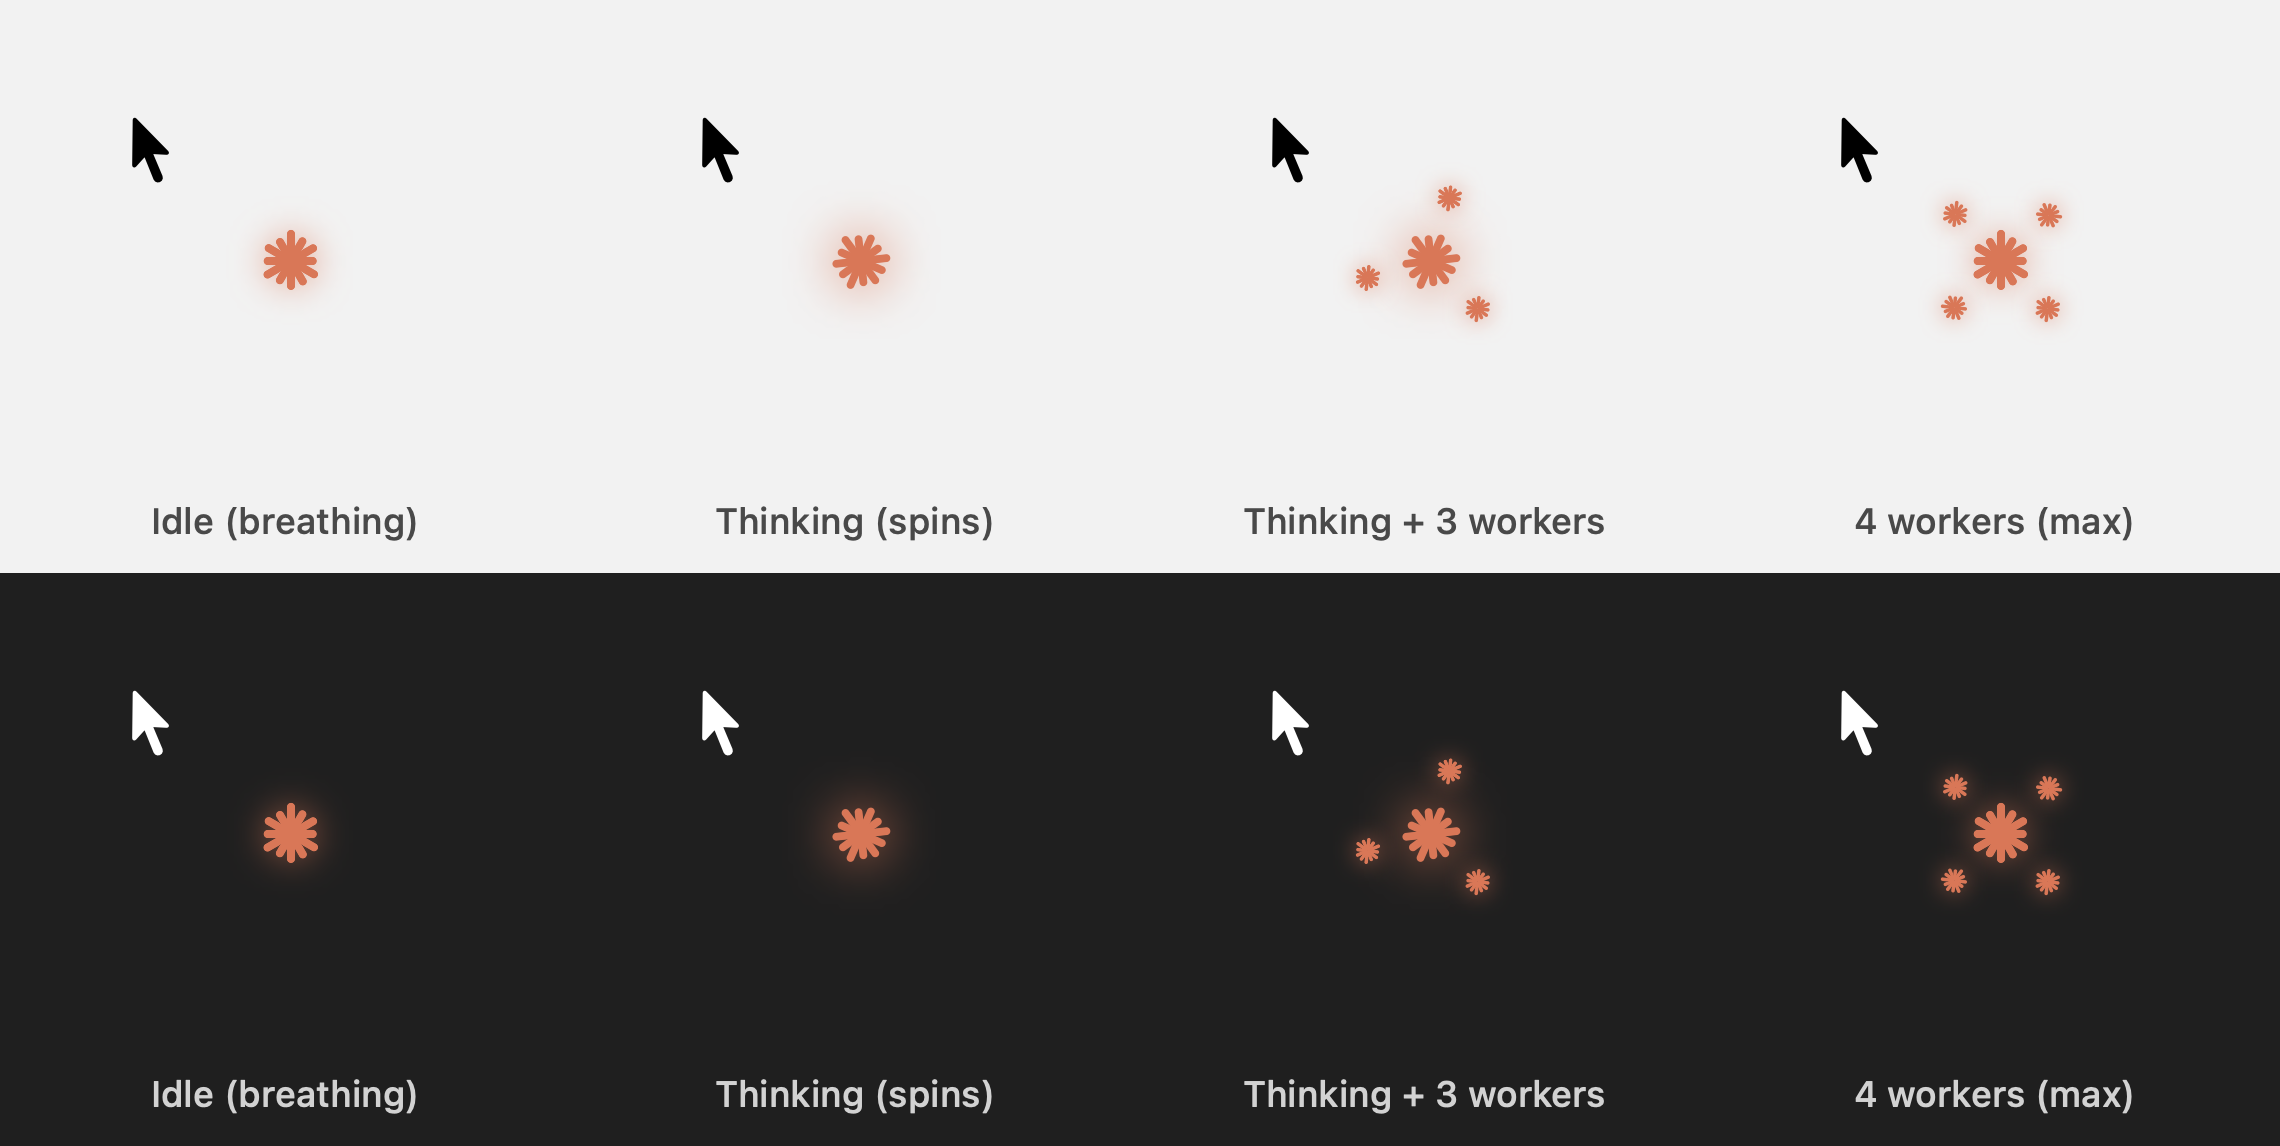
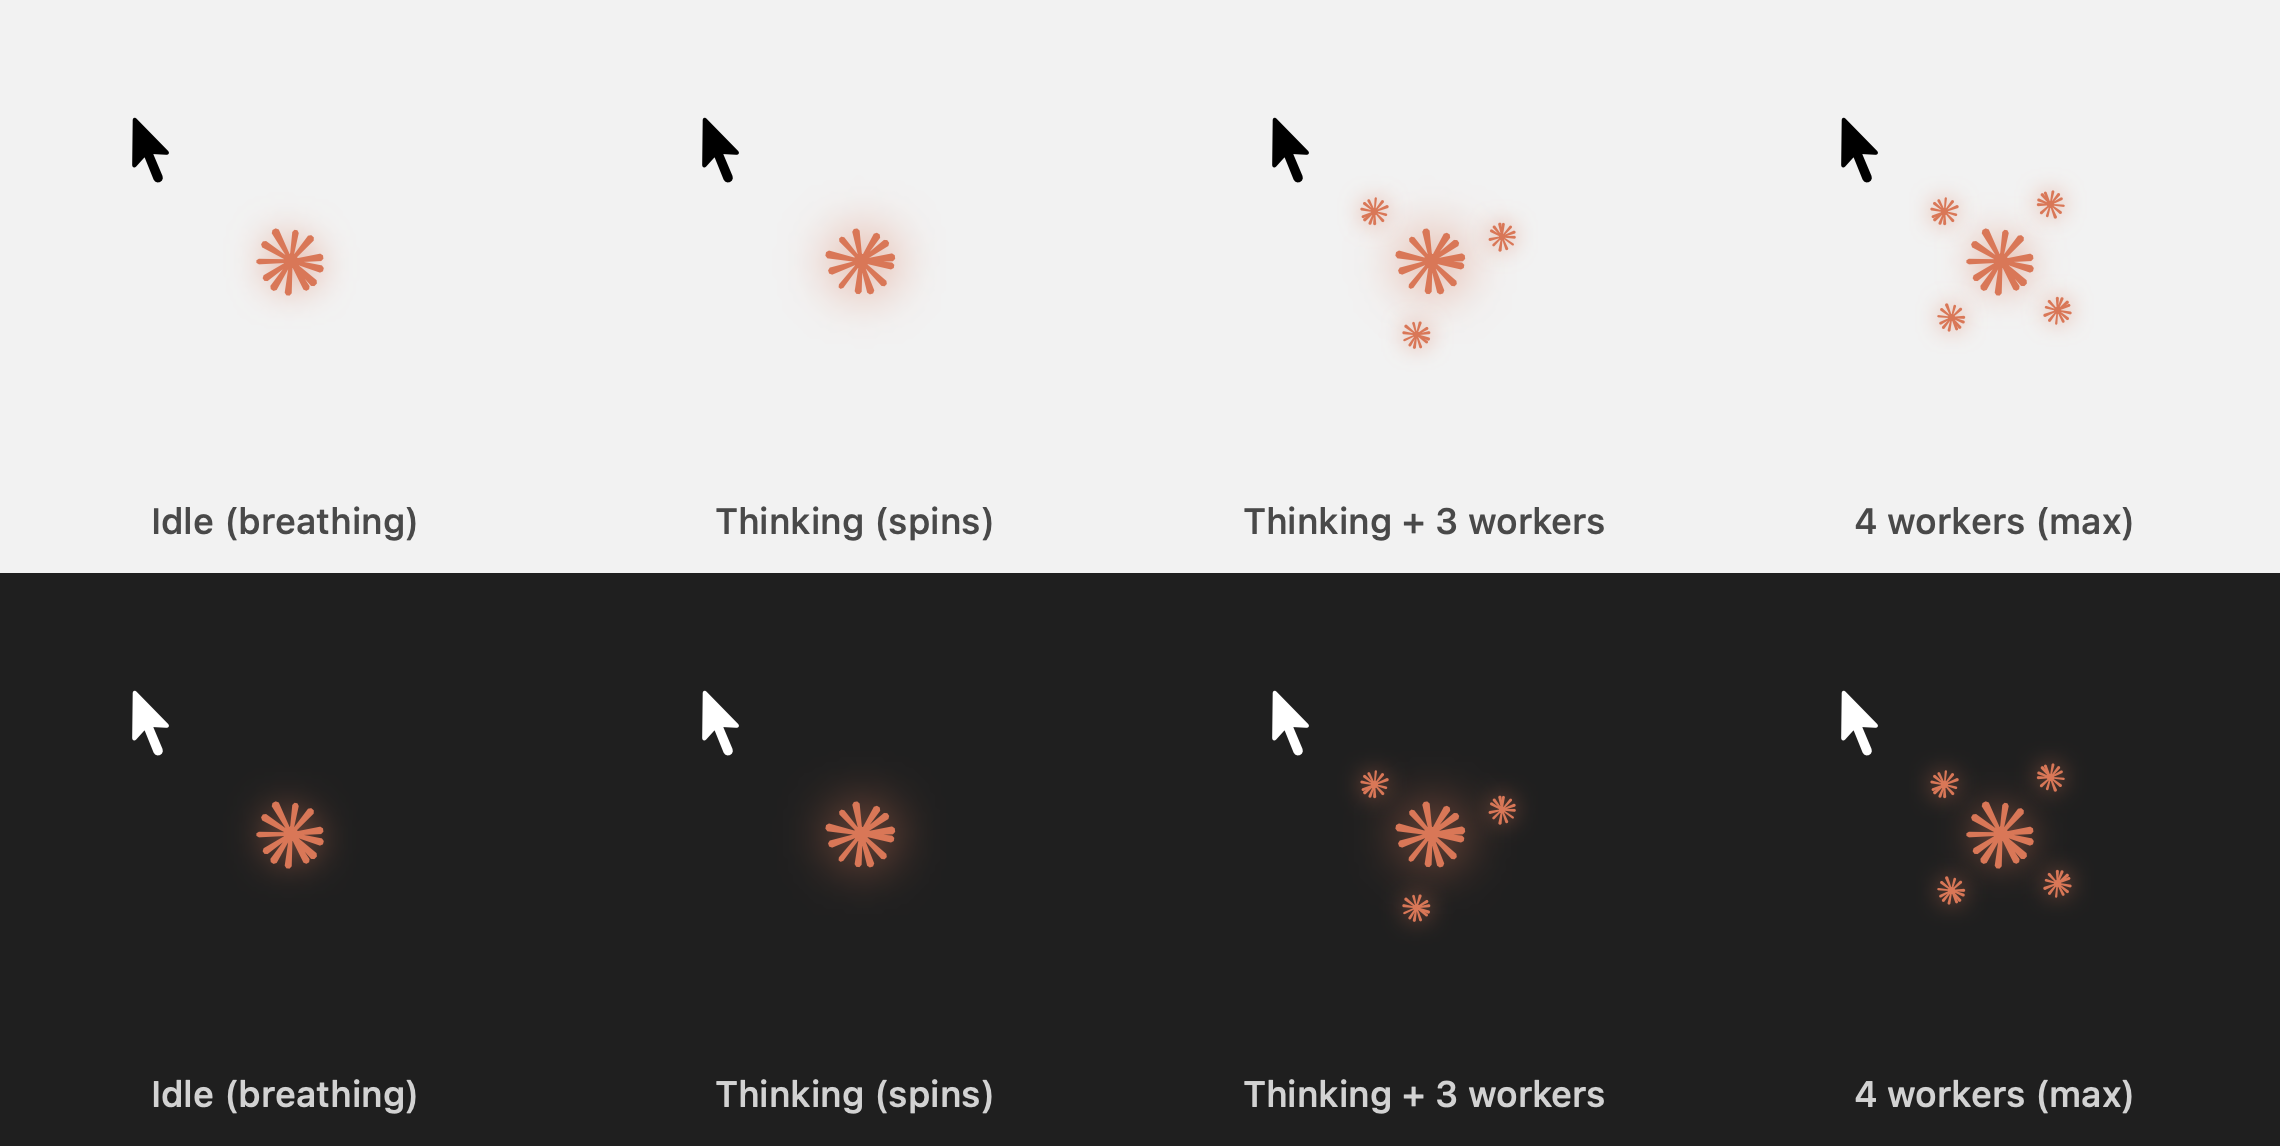
Redraw companion to match Claude mark
The old spark was a symmetric round-capped asterisk. The new shape uses ray angles and lengths measured from the real mark, with tapered rays, clipped tips and a solid centre, and is a little larger so it reads at cursor size. No icon file is bundled; it's drawn in code.

diff --git a/leanring-buddy/ClaudeCompanionView.swift b/leanring-buddy/ClaudeCompanionView.swift
@@ -13,42 +13,87 @@
 
 import SwiftUI
 
-/// A radial burst of rounded rays, like Claude's spark mark. Ray lengths vary
-/// slightly so it looks hand-drawn rather than like a perfect asterisk.
+/// Claude's spark mark: twelve tapered rays of slightly uneven length and
+/// spacing, thin where they meet in the middle and wider at their clipped
+/// tips, so it reads as hand-drawn rather than a geometric star.
 struct ClaudeSparkShape: Shape {
-    /// Relative length of each ray (1.0 = reaches the edge of the frame).
-    /// Fixed values, not random, so every spark looks the same.
-    private static let relativeRayLengths: [CGFloat] = [
-        1.00, 0.84, 0.94, 0.80, 0.98, 0.87, 0.92, 0.82, 1.00, 0.86, 0.95, 0.81
+    private struct SparkRay {
+        /// Direction in degrees: 0 points right, increasing clockwise.
+        let angleDegrees: CGFloat
+        /// 1.0 reaches the edge of the frame.
+        let relativeLength: CGFloat
+        /// Half the width of the tip, as a fraction of the spark's radius.
+        let relativeTipHalfWidth: CGFloat
+    }
+
+    /// Angles and lengths measured from the real mark, so the unevenness
+    /// matches it instead of being random.
+    private static let sparkRays: [SparkRay] = [
+        SparkRay(angleDegrees: 15, relativeLength: 0.93, relativeTipHalfWidth: 0.104),
+        SparkRay(angleDegrees: 44, relativeLength: 0.95, relativeTipHalfWidth: 0.111),
+        SparkRay(angleDegrees: 60, relativeLength: 0.93, relativeTipHalfWidth: 0.098),
+        SparkRay(angleDegrees: 95, relativeLength: 0.96, relativeTipHalfWidth: 0.098),
+        SparkRay(angleDegrees: 123, relativeLength: 0.96, relativeTipHalfWidth: 0.104),
+        SparkRay(angleDegrees: 146, relativeLength: 0.92, relativeTipHalfWidth: 0.098),
+        SparkRay(angleDegrees: 179, relativeLength: 0.96, relativeTipHalfWidth: 0.078),
+        SparkRay(angleDegrees: 212, relativeLength: 0.95, relativeTipHalfWidth: 0.104),
+        SparkRay(angleDegrees: 242, relativeLength: 1.00, relativeTipHalfWidth: 0.111),
+        SparkRay(angleDegrees: 279, relativeLength: 0.87, relativeTipHalfWidth: 0.091),
+        SparkRay(angleDegrees: 311, relativeLength: 0.91, relativeTipHalfWidth: 0.104),
+        SparkRay(angleDegrees: 353, relativeLength: 0.90, relativeTipHalfWidth: 0.104)
     ]
+
+    /// Where the rays start, and their half-width there. Rays start inside
+    /// the hub so they merge into one solid centre.
+    private static let relativeRayBaseRadius: CGFloat = 0.10
+    private static let relativeRayBaseHalfWidth: CGFloat = 0.05
+    private static let relativeHubRadius: CGFloat = 0.2
+    /// How far back from the tip its corners are clipped.
+    private static let relativeTipChamferLength: CGFloat = 0.07
 
     func path(in rect: CGRect) -> Path {
         let sparkCenter = CGPoint(x: rect.midX, y: rect.midY)
         let sparkRadius = min(rect.width, rect.height) / 2
-        // Rays are stroked with round caps, so pull the tips in by half the
-        // stroke width to keep them inside the frame.
-        let rayStrokeWidth = sparkRadius * 0.26
-        let rayInnerRadius = sparkRadius * 0.12
-        let rayCount = Self.relativeRayLengths.count
 
-        var raySkeletonPath = Path()
-        for rayIndex in 0..<rayCount {
-            // Start pointing straight up and go clockwise.
-            let rayAngle = (CGFloat(rayIndex) / CGFloat(rayCount)) * 2 * .pi - .pi / 2
-            let rayOuterRadius = (sparkRadius - rayStrokeWidth / 2) * Self.relativeRayLengths[rayIndex]
-            raySkeletonPath.move(to: CGPoint(
-                x: sparkCenter.x + cos(rayAngle) * rayInnerRadius,
-                y: sparkCenter.y + sin(rayAngle) * rayInnerRadius
-            ))
-            raySkeletonPath.addLine(to: CGPoint(
-                x: sparkCenter.x + cos(rayAngle) * rayOuterRadius,
-                y: sparkCenter.y + sin(rayAngle) * rayOuterRadius
-            ))
+        /// Maps a point in a ray's own frame (x along the ray, y across it)
+        /// to the view, rotated to the ray's direction.
+        func pointAlongRay(angleRadians: CGFloat, alongRay: CGFloat, acrossRay: CGFloat) -> CGPoint {
+            CGPoint(
+                x: sparkCenter.x + (cos(angleRadians) * alongRay - sin(angleRadians) * acrossRay) * sparkRadius,
+                y: sparkCenter.y + (sin(angleRadians) * alongRay + cos(angleRadians) * acrossRay) * sparkRadius
+            )
         }
 
-        // Turning the stroke into a filled outline lets callers use .fill()
-        // like any other shape, and overlapping rays merge cleanly at the center.
-        return raySkeletonPath.strokedPath(StrokeStyle(lineWidth: rayStrokeWidth, lineCap: .round))
+        var sparkPath = Path()
+
+        // Every subpath winds the same way so the default non-zero fill
+        // merges the overlapping rays and hub instead of punching holes.
+        for sparkRay in Self.sparkRays {
+            let rayAngleRadians = sparkRay.angleDegrees * .pi / 180
+            let tipDistance = sparkRay.relativeLength
+            let tipHalfWidth = sparkRay.relativeTipHalfWidth
+            let rayOutline: [(alongRay: CGFloat, acrossRay: CGFloat)] = [
+                (Self.relativeRayBaseRadius, -Self.relativeRayBaseHalfWidth),
+                (tipDistance - Self.relativeTipChamferLength, -tipHalfWidth),
+                (tipDistance, -tipHalfWidth * 0.45),
+                (tipDistance, tipHalfWidth * 0.45),
+                (tipDistance - Self.relativeTipChamferLength, tipHalfWidth),
+                (Self.relativeRayBaseRadius, Self.relativeRayBaseHalfWidth)
+            ]
+            sparkPath.addLines(rayOutline.map {
+                pointAlongRay(angleRadians: rayAngleRadians, alongRay: $0.alongRay, acrossRay: $0.acrossRay)
+            })
+            sparkPath.closeSubpath()
+        }
+
+        let hubCornerCount = 24
+        sparkPath.addLines((0..<hubCornerCount).map { hubCornerIndex in
+            let hubAngleRadians = CGFloat(hubCornerIndex) / CGFloat(hubCornerCount) * 2 * .pi
+            return pointAlongRay(angleRadians: hubAngleRadians, alongRay: Self.relativeHubRadius, acrossRay: 0)
+        })
+        sparkPath.closeSubpath()
+
+        return sparkPath
     }
 }
 
@@ -62,9 +107,9 @@ struct ClaudeCompanionView: View {
     /// saves redrawing every overlay at 60fps.
     let isAnimationRunning: Bool
 
-    static let coordinatorSparkDiameter: CGFloat = 20
-    static let workerSparkDiameter: CGFloat = 9
-    static let workerOrbitRadius: CGFloat = 22
+    static let coordinatorSparkDiameter: CGFloat = 24
+    static let workerSparkDiameter: CGFloat = 10
+    static let workerOrbitRadius: CGFloat = 25
 
     private let coordinatorThinkingSpinDegreesPerSecond: Double = 220
     private let idleBreathingCycleSeconds: Double = 3.2
